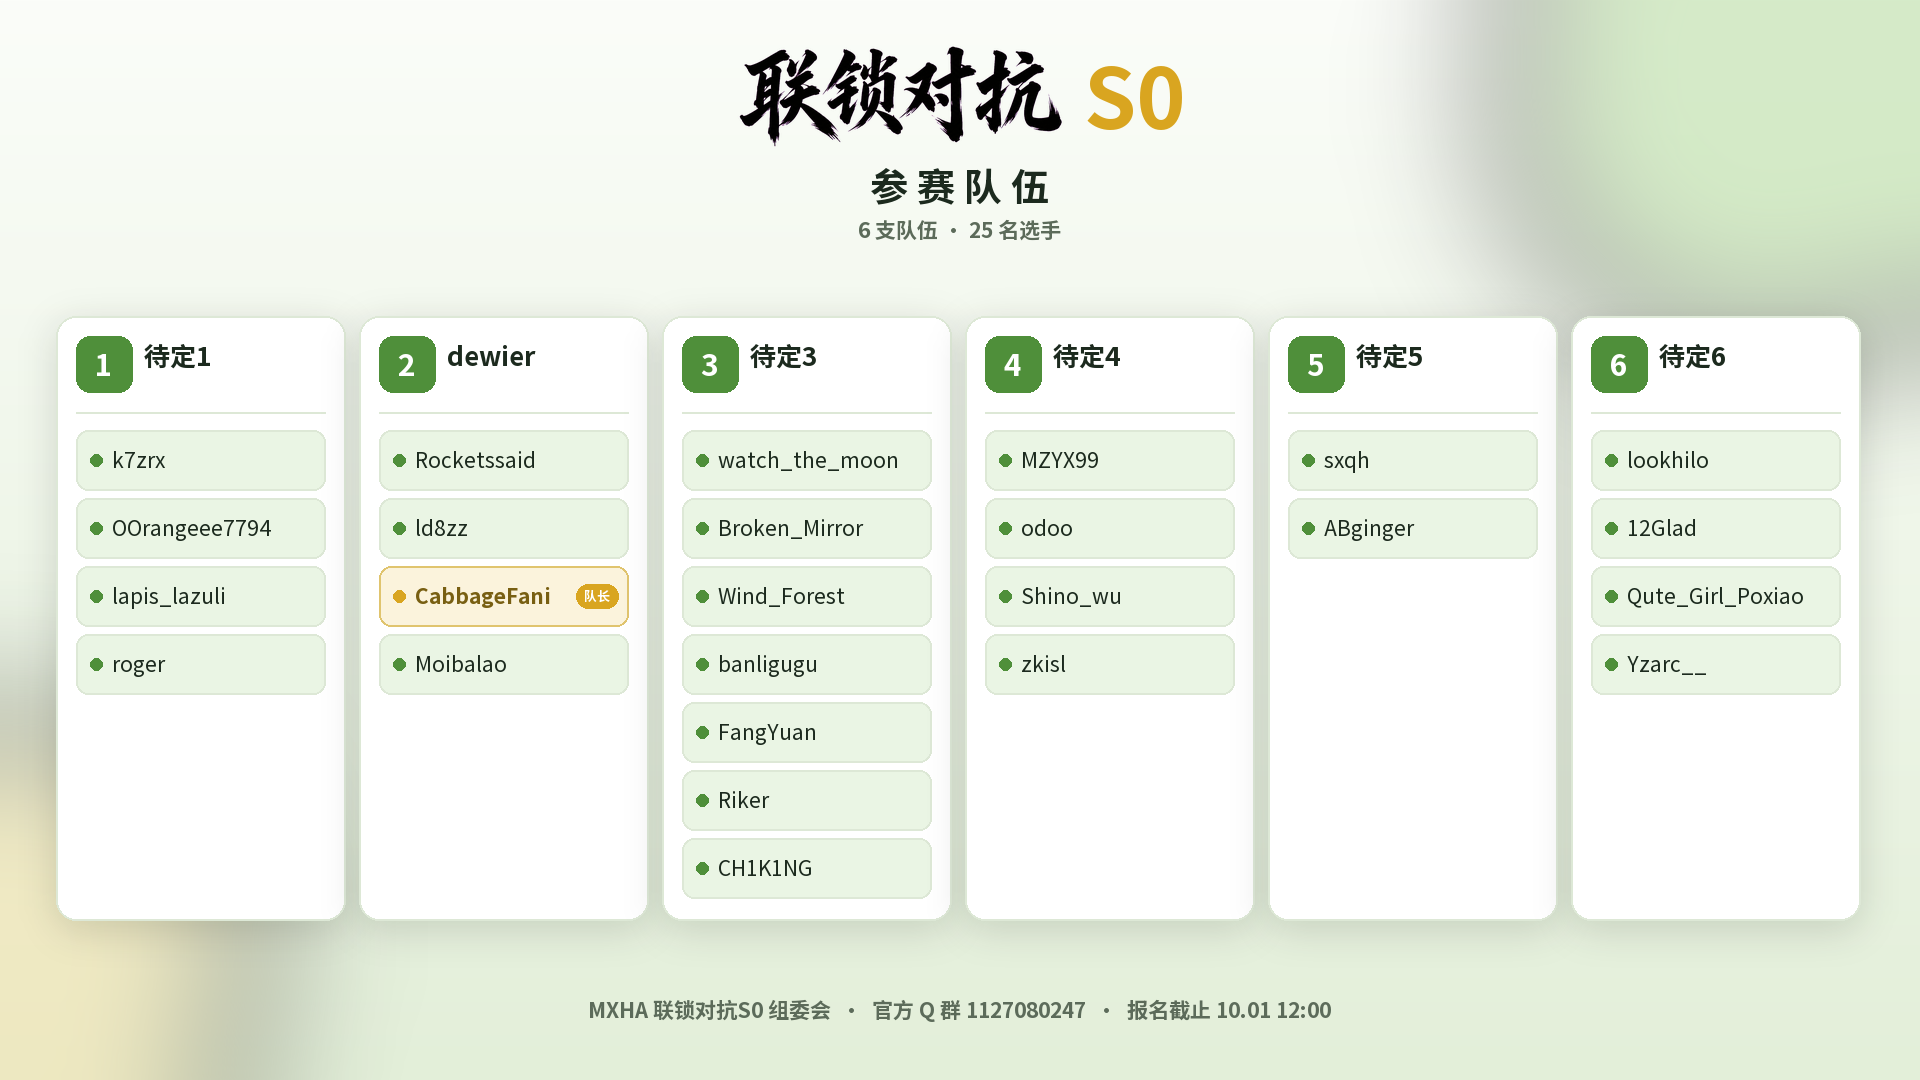
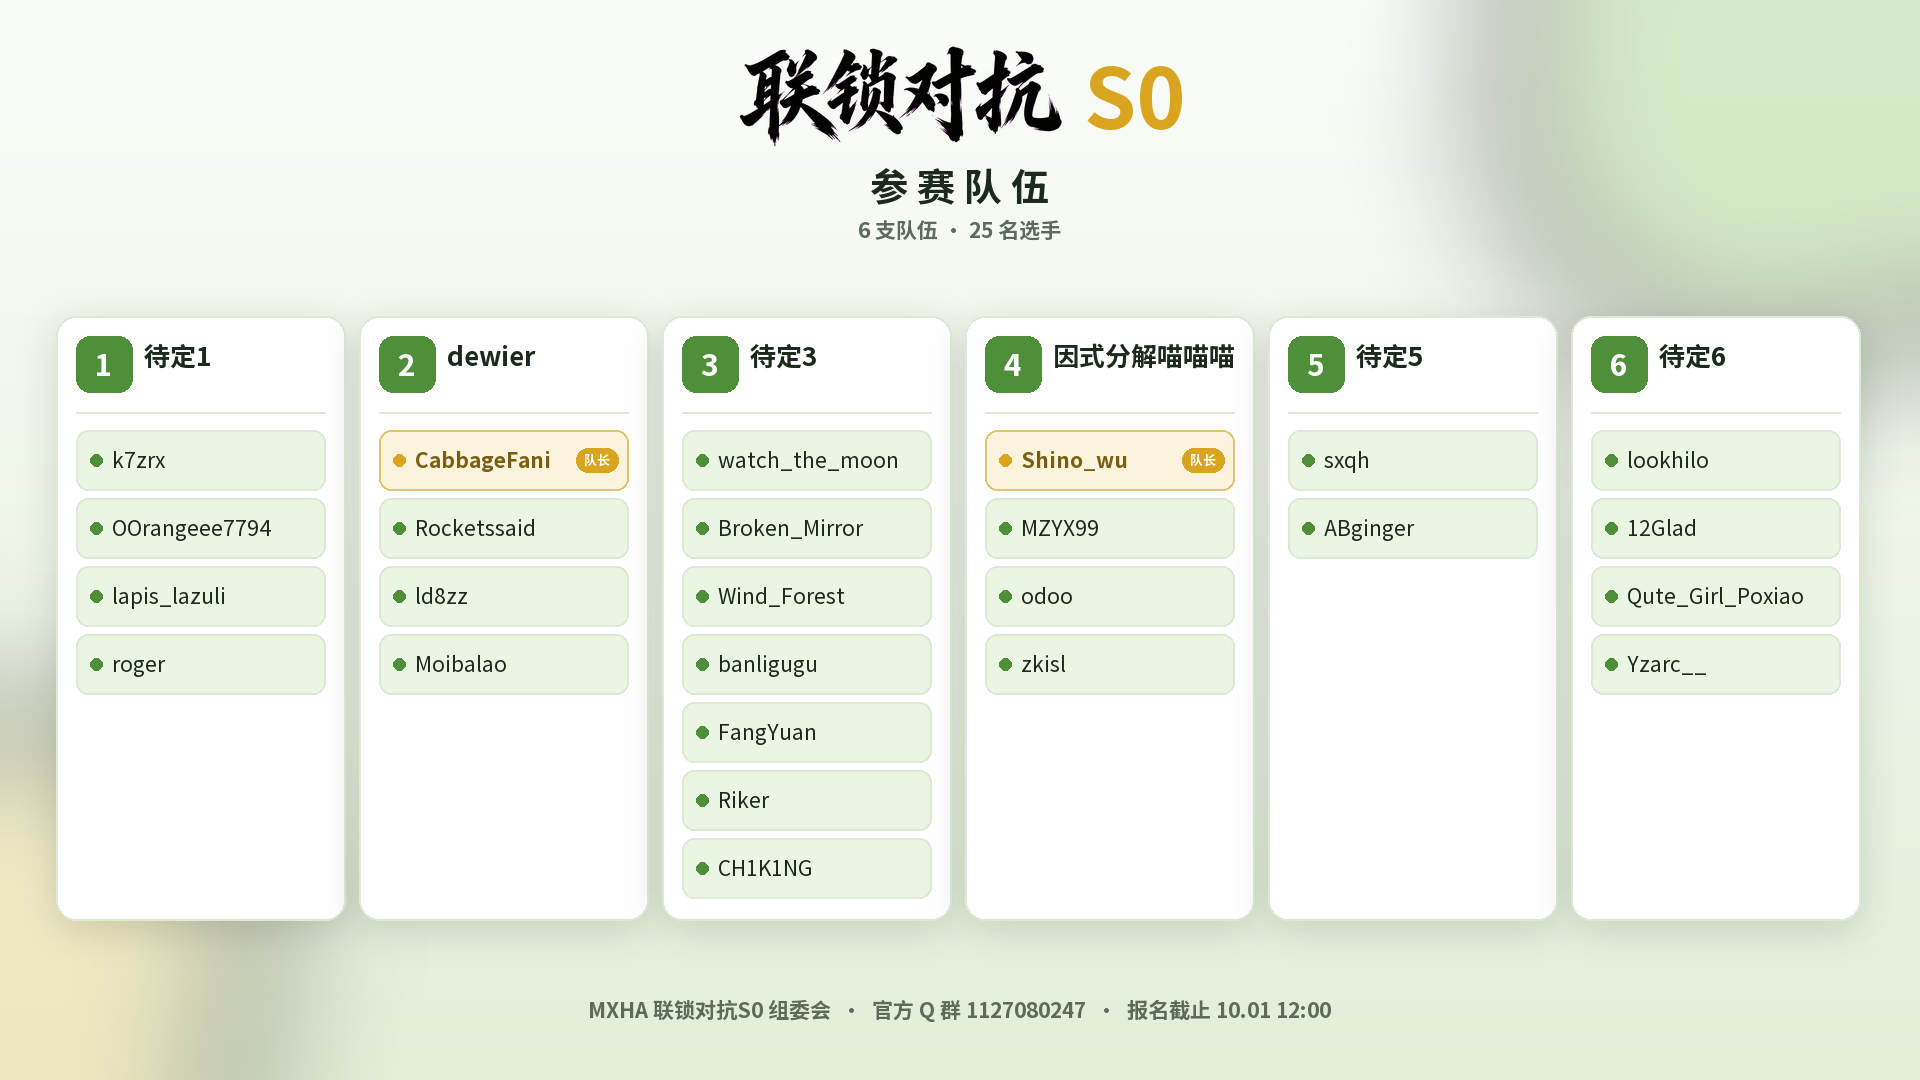
待定4更名因式分解喵喵喵+队长Shino_wu，队长置顶显示(v22)

diff --git a/index.html b/index.html
@@ -6,7 +6,7 @@
 <meta name="description" content="联锁对抗S0 · 厦门多校联合 Minecraft 竞技赛｜四大项目 · 积分赛制｜2026.10.03–10.04">
 <title>联锁对抗S0 · 厦门多校联合 Minecraft 竞技赛</title>
 <link rel="icon" href="assets/海报-圆形版.png">
-<link rel="stylesheet" href="styles.css?v=21">
+<link rel="stylesheet" href="styles.css?v=22">
 </head>
 <body>
 
@@ -121,7 +121,7 @@
       <a class="tmini" href="teams.html"><span class="tmini-head"><span class="tmini-num">1</span><span class="tmini-name">待定1</span></span><span class="tmini-meta">4 人 · 厦门双十中学</span></a>
       <a class="tmini" href="teams.html"><span class="tmini-head"><span class="tmini-num">2</span><span class="tmini-name">dewier</span></span><span class="tmini-meta">4 人 · 厦门市集美中学</span></a>
       <a class="tmini" href="teams.html"><span class="tmini-head"><span class="tmini-num">3</span><span class="tmini-name">待定3</span></span><span class="tmini-meta">7 人 · 厦门外国语学校</span></a>
-      <a class="tmini" href="teams.html"><span class="tmini-head"><span class="tmini-num">4</span><span class="tmini-name">待定4</span></span><span class="tmini-meta">4 人 · 厦门双十中学 / 厦门英才学校 / 厦门同安一中</span></a>
+      <a class="tmini" href="teams.html"><span class="tmini-head"><span class="tmini-num">4</span><span class="tmini-name">因式分解喵喵喵</span></span><span class="tmini-meta">4 人 · 厦门双十中学 / 厦门英才学校 / 厦门同安一中</span></a>
       <a class="tmini" href="teams.html"><span class="tmini-head"><span class="tmini-num">5</span><span class="tmini-name">待定5</span></span><span class="tmini-meta">2 人 · 厦门第一中学</span></a>
       <a class="tmini" href="teams.html"><span class="tmini-head"><span class="tmini-num">6</span><span class="tmini-name">待定6</span></span><span class="tmini-meta">4 人 · 厦门同安一中 / 厦门海沧实验中学 / 深圳</span></a>
     </div>
@@ -209,8 +209,8 @@
   </div>
 </footer>
 
-<script src="app.js?v=21"></script>
-<script src="data/teams.js?v=21"></script>
+<script src="app.js?v=22"></script>
+<script src="data/teams.js?v=22"></script>
 <script>
 (function () {
   'use strict';

diff --git a/teams.html b/teams.html
@@ -6,7 +6,7 @@
 <meta name="description" content="联锁对抗S0 · 参赛队伍总览">
 <title>参赛队伍 · 联锁对抗S0</title>
 <link rel="icon" href="assets/海报-圆形版.png">
-<link rel="stylesheet" href="styles.css?v=21">
+<link rel="stylesheet" href="styles.css?v=22">
 </head>
 <body>
 
@@ -50,9 +50,9 @@
         <thead><tr><th>编号</th><th>队伍</th><th>学校</th><th>队员</th></tr></thead>
         <tbody>
           <tr><td>1</td><td>待定1</td><td>厦门双十中学</td><td>k7zrx、OOrangeee7794、lapis_lazuli、roger（队长待定）</td></tr>
-          <tr><td>2</td><td>dewier</td><td>厦门市集美中学</td><td>Rocketssaid、ld8zz、CabbageFani（队长）、Moibalao</td></tr>
+          <tr><td>2</td><td>dewier</td><td>厦门市集美中学</td><td>CabbageFani（队长）、Rocketssaid、ld8zz、Moibalao</td></tr>
           <tr><td>3</td><td>待定3</td><td>厦门外国语学校</td><td>watch_the_moon、Broken_Mirror、Wind_Forest、banligugu、FangYuan、Riker、CH1K1NG（队长待定）</td></tr>
-          <tr><td>4</td><td>待定4</td><td>厦门双十中学 / 厦门英才学校 / 厦门同安一中</td><td>MZYX99、odoo、Shino_wu、zkisl（队长待定）</td></tr>
+          <tr><td>4</td><td>因式分解喵喵喵</td><td>厦门双十中学 / 厦门英才学校 / 厦门同安一中</td><td>Shino_wu（队长）、MZYX99、odoo、zkisl</td></tr>
           <tr><td>5</td><td>待定5</td><td>厦门第一中学</td><td>sxqh、ABginger（队长待定）</td></tr>
           <tr><td>6</td><td>待定6</td><td>厦门同安一中 / 厦门海沧实验中学 / 深圳</td><td>lookhilo、12Glad、Qute_Girl_Poxiao、Yzarc__（队长待定）</td></tr>
         </tbody>
@@ -79,8 +79,8 @@
   </div>
 </footer>
 
-<script src="app.js?v=21"></script>
-<script src="data/teams.js?v=21"></script>
+<script src="app.js?v=22"></script>
+<script src="data/teams.js?v=22"></script>
 <script>
 (function () {
   'use strict';

diff --git a/data/teams.js b/data/teams.js
@@ -35,14 +35,14 @@ window.LSF_TEAMS = {
       ],
       "members": [
         {
+          "mcid": "CabbageFani",
+          "captain": true
+        },
+        {
           "mcid": "Rocketssaid"
         },
         {
           "mcid": "ld8zz"
-        },
-        {
-          "mcid": "CabbageFani",
-          "captain": true
         },
         {
           "mcid": "Moibalao"
@@ -83,9 +83,9 @@ window.LSF_TEAMS = {
     },
     {
       "id": 4,
-      "name": "待定4",
-      "placeholder": true,
-      "captainTBD": true,
+      "name": "因式分解喵喵喵",
+      "placeholder": false,
+      "captainTBD": false,
       "schools": [
         "厦门双十中学",
         "厦门英才学校",
@@ -93,13 +93,14 @@ window.LSF_TEAMS = {
       ],
       "members": [
         {
+          "mcid": "Shino_wu",
+          "captain": true
+        },
+        {
           "mcid": "MZYX99"
         },
         {
           "mcid": "odoo"
-        },
-        {
-          "mcid": "Shino_wu"
         },
         {
           "mcid": "zkisl"

diff --git a/projects/frostbite.html b/projects/frostbite.html
@@ -6,7 +6,7 @@
 <meta name="description" content="联锁对抗S0 · 霜冻狂潮 游戏机制与比赛配置">
 <title>霜冻狂潮 · 联锁对抗S0</title>
 <link rel="icon" href="../assets/海报-圆形版.png">
-<link rel="stylesheet" href="../styles.css?v=21">
+<link rel="stylesheet" href="../styles.css?v=22">
 </head>
 <body class="detail-page bg-frostbite">
 <a class="skip" href="#main">跳到内容</a>
@@ -65,6 +65,6 @@
   </div>
 </footer>
 
-<script src="../app.js?v=21"></script>
+<script src="../app.js?v=22"></script>
 </body>
 </html>

diff --git a/projects/bedwars.html b/projects/bedwars.html
@@ -6,7 +6,7 @@
 <meta name="description" content="联锁对抗S0 · 起床战争 游戏机制与比赛配置">
 <title>起床战争 · 联锁对抗S0</title>
 <link rel="icon" href="../assets/海报-圆形版.png">
-<link rel="stylesheet" href="../styles.css?v=21">
+<link rel="stylesheet" href="../styles.css?v=22">
 </head>
 <body class="detail-page bg-bedwars">
 <a class="skip" href="#main">跳到内容</a>
@@ -63,6 +63,6 @@
   </div>
 </footer>
 
-<script src="../app.js?v=21"></script>
+<script src="../app.js?v=22"></script>
 </body>
 </html>

diff --git a/schedule.html b/schedule.html
@@ -6,7 +6,7 @@
 <meta name="description" content="联锁对抗S0 · 赛程安排">
 <title>赛程安排 · 联锁对抗S0</title>
 <link rel="icon" href="assets/海报-圆形版.png">
-<link rel="stylesheet" href="styles.css?v=21">
+<link rel="stylesheet" href="styles.css?v=22">
 </head>
 <body>
 
@@ -80,8 +80,8 @@
   </div>
 </footer>
 
-<script src="app.js?v=21"></script>
-<script src="data/schedule.js?v=21"></script>
+<script src="app.js?v=22"></script>
+<script src="data/schedule.js?v=22"></script>
 <script>
 (function () {
   'use strict';

diff --git a/projects/desert.html b/projects/desert.html
@@ -6,7 +6,7 @@
 <meta name="description" content="联锁对抗S0 · 荒芜沙漠 游戏机制与比赛配置">
 <title>荒芜沙漠 · 联锁对抗S0</title>
 <link rel="icon" href="../assets/海报-圆形版.png">
-<link rel="stylesheet" href="../styles.css?v=21">
+<link rel="stylesheet" href="../styles.css?v=22">
 </head>
 <body class="detail-page bg-desert">
 <a class="skip" href="#main">跳到内容</a>
@@ -66,6 +66,6 @@
   </div>
 </footer>
 
-<script src="../app.js?v=21"></script>
+<script src="../app.js?v=22"></script>
 </body>
 </html>

diff --git a/projects/siege.html b/projects/siege.html
@@ -6,7 +6,7 @@
 <meta name="description" content="联锁对抗S0 · 空岛围攻 游戏机制与比赛配置">
 <title>空岛围攻 · 联锁对抗S0</title>
 <link rel="icon" href="../assets/海报-圆形版.png">
-<link rel="stylesheet" href="../styles.css?v=21">
+<link rel="stylesheet" href="../styles.css?v=22">
 </head>
 <body class="detail-page bg-siege">
 <a class="skip" href="#main">跳到内容</a>
@@ -66,6 +66,6 @@
   </div>
 </footer>
 
-<script src="../app.js?v=21"></script>
+<script src="../app.js?v=22"></script>
 </body>
 </html>

diff --git a/rules.html b/rules.html
@@ -6,7 +6,7 @@
 <meta name="description" content="联锁对抗S0 · 赛制与积分规则">
 <title>赛制与积分 · 联锁对抗S0</title>
 <link rel="icon" href="assets/海报-圆形版.png">
-<link rel="stylesheet" href="styles.css?v=21">
+<link rel="stylesheet" href="styles.css?v=22">
 </head>
 <body>
 
@@ -101,6 +101,6 @@
   </div>
 </footer>
 
-<script src="app.js?v=21"></script>
+<script src="app.js?v=22"></script>
 </body>
 </html>

diff --git a/projects.html b/projects.html
@@ -6,7 +6,7 @@
 <meta name="description" content="联锁对抗S0 · 四大比赛项目">
 <title>比赛项目 · 联锁对抗S0</title>
 <link rel="icon" href="assets/海报-圆形版.png">
-<link rel="stylesheet" href="styles.css?v=21">
+<link rel="stylesheet" href="styles.css?v=22">
 </head>
 <body>
 
@@ -108,6 +108,6 @@
   </div>
 </footer>
 
-<script src="app.js?v=21"></script>
+<script src="app.js?v=22"></script>
 </body>
 </html>
